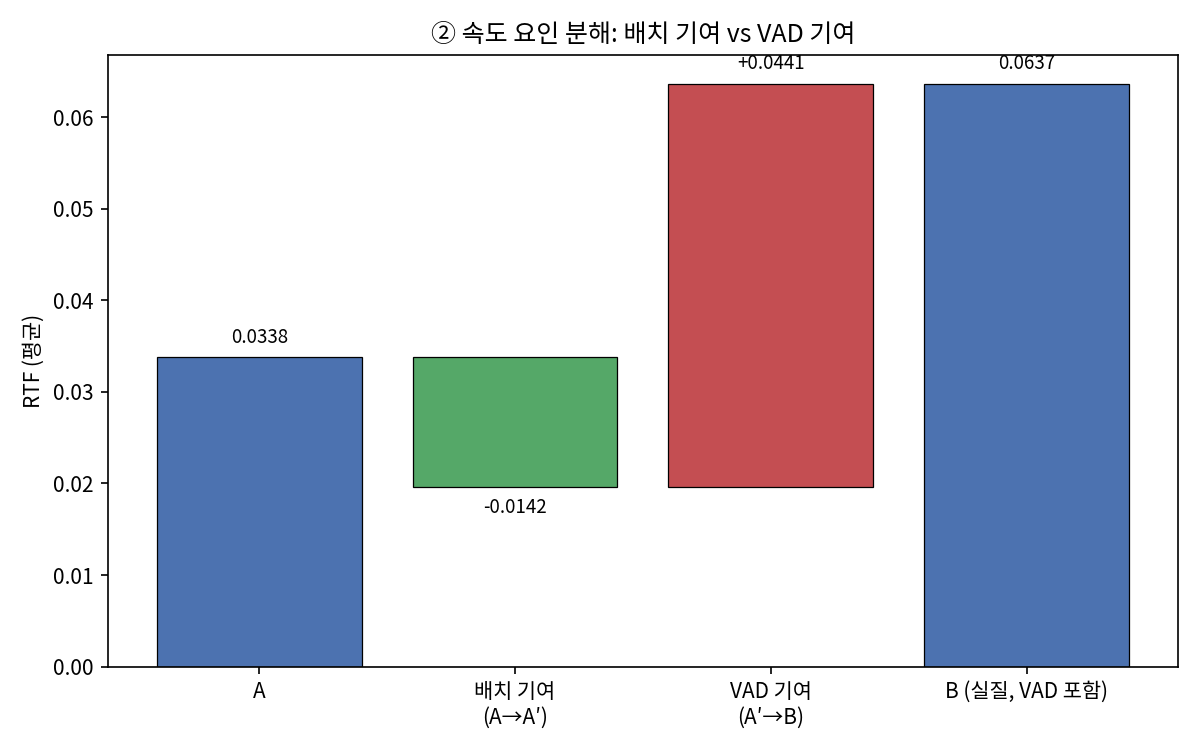
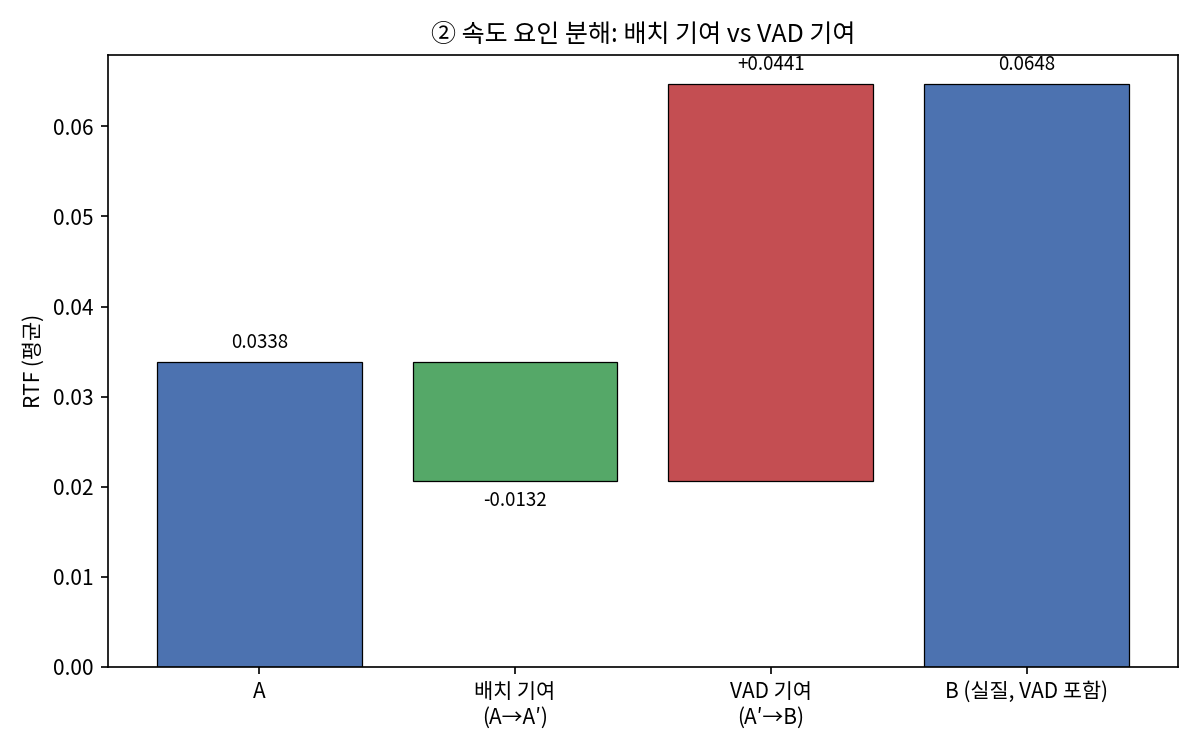
docs: Phase 1 10파일 최종 분석 + 보고서 갱신
- L04까지 완료해 results_10(10파일×3조건) 분석
- Wilcoxon n=10: A→A′ WER·CER·할루시·RTF 전부 유의 개선,
  A′→B는 RTF 유의 느려짐+할루시 유의 증가 → A′ 채택 결론 강화
- 손익분기점 없음(무음 높아도 B가 A′ 못 이김)
- PHASE1_EXPERIMENT_REPORT.md 10파일판, 후반 Δt는 한계 섹션으로 강등
- stats_10/breakeven_10 + 그래프 갱신 (가설3 민감도는 스윕 후 별도)

diff --git a/vad_stt_research/results/PHASE1_EXPERIMENT_REPORT.md b/vad_stt_research/results/PHASE1_EXPERIMENT_REPORT.md
@@ -1,55 +1,56 @@
-# VAD STT 연구 — Phase 1 · 3차(최종) 실험 결과 보고서
+# VAD STT 연구 — Phase 1 최종 실험 결과 보고서 (10파일)
 
-> 실험일: 2026-06-25 | 상태: 7파일 분석 완료 (10파일로 확장 예정)
+> 실험일: 2026-06-25~26 | 상태: 10파일 3-arm 완료 (가설3 민감도 진행 예정)
 > STT: faster-whisper large-v3-turbo (int8_float16) | GPU: RTX 2080 8GB | VAD: Silero (GPU)
-> 통계: Wilcoxon signed-rank, α=0.05 | RTF: warmup 1 + 측정 3회 평균
+> 통계: Wilcoxon signed-rank, α=0.05 (paired, n=10) | RTF: warmup 1 + 측정 3회 평균
 
 ---
 
 ## 핵심 요약
 
-| 비교 축 | 효과 | 통계적 유의성 |
-|---------|------|--------------|
-| **A→A′ (파라미터 통일)** | WER·CER·할루시네이션·RTF **모두 개선** | ✔ 전 지표 유의 |
-| **A′→B (VAD 전처리)** | RTF **느려짐**, 할루시네이션 **증가**, WER/CER 악화 경향 | ✔ RTF·할루시 유의(악화 방향) |
-| **A→B (전체)** | 순효과 상쇄 — 유의한 개선 없음 | ✗ 무의 |
+| 비교 축 | 효과 | 통계 |
+|---------|------|------|
+| **A→A′ (파라미터 통일)** | WER·CER·할루시네이션·RTF **모두 유의 개선** | 전 지표 p≤0.02 ✔ |
+| **A′→B (VAD 전처리)** | RTF **느려짐**, 할루시네이션 **증가** | RTF p=0.002 / 할루시 p=0.027 ✔ |
+| **A→B (전체)** | 할루시네이션만 유의 개선(파라미터 덕), 속도·WER은 무이득 | 할루시 p=0.020 ✔ |
 
-**결론: A′ 채택. VAD(B)는 large-v3-turbo 환경에서 속도·정확도 모두 순손해.**
-파라미터 한 줄(`condition_on_previous_text=False`)이 개선의 전부이며, VAD 전처리는 그 위에서 오히려 성능을 깎는다.
+**결론: A′ 채택. VAD(B)는 large-v3-turbo 환경에서 속도 순손해 + 할루시네이션 유발.**
+개선의 실체는 파라미터 한 줄(`condition_on_previous_text=False`)이며, VAD 전처리는 그 위에서 오히려 성능을 깎는다. (1·2차 회차 및 후속 엔진비교 연구와 결론 일관)
 
 ---
 
-## 1. 데이터셋 (7파일, 1·2차와 재수집본)
+## 1. 데이터셋 (10파일, 5 high + 5 low)
 
-| 그룹 | file_id | 길이 | 무음 비율 |
-|------|---------|------|-----------|
+| 그룹 | file_id | 길이 | 무음 비율(Silero 실측) |
+|------|---------|------|------------------------|
 | high_silence | H01 | 107.7분 | 71.1% |
 | high_silence | H02 | 59.1분 | 67.3% |
+| high_silence | H03 | 55.6분 | 69.9% |
 | high_silence | H04 | 57.1분 | 69.3% |
 | high_silence | H05 | 53.0분 | 68.6% |
 | low_silence | L01 | 75.4분 | 18.4% |
+| low_silence | L02 | 78.0분 | 0.5% |
 | low_silence | L03 | 72.4분 | 17.2% |
+| low_silence | L04 | 112.0분 | 16.6% |
 | low_silence | L05 | 85.4분 | 20.0% |
 
-high 4 + low 3. 추가 3개(H03·L02·L04 자리, 사전검사 통과)는 다운로드/실험 후 합류 → 최종 10파일로 갱신 예정.
+- 데이터 소스: YouTube 수동 한국어 자막. 사전검사 2단계(VTT 스크리닝 → Silero 실측 무음·STT 샘플)로 음악성 콘텐츠·과도한 인트로 영상 배제.
 
 ---
 
-## 2. 통계 검정 (Wilcoxon signed-rank, n=7)
+## 2. 통계 검정 (Wilcoxon signed-rank, n=10)
 
 | 지표 | A→A′ (파라미터) | A′→B (VAD) | A→B (전체) |
 |------|----------------|-----------|-----------|
-| **WER** | 0.305→0.219 (p=**0.031** ✔) | 0.219→0.271 ↑악화 (p=0.297) | 0.305→0.271 (p=0.375) |
-| **CER** | 0.188→0.098 (p=**0.016** ✔) | 0.098→0.150 ↑악화 (p=0.469) | 0.188→0.150 (p=0.297) |
-| **할루시네이션/시간** | 252.8→93.2 (p=**0.016** ✔) | 93.2→120.5 ↑악화 (p=**0.016** ✔) | 252.8→120.5 (p=0.109) |
-| **RTF** | 0.034→0.020 (p=**0.016** ✔) | 0.020→0.037 ↑느려짐 (p=**0.016** ✔) | 0.034→0.037 (p=0.688) |
-| **후반 Δt(s)** | 1.06→1.87 (n=4, p=0.125) | 1.87→1.76 (n=4, p=0.625) | 1.06→1.76 (p=0.250) |
+| **WER** | 0.299→0.225 (p=**0.020** ✔) | 0.225→0.266 ↑악화 (p=0.131) | (p=0.322) |
+| **CER** | 0.172→0.094 (p=**0.002** ✔) | 0.094→0.133 ↑악화 (p=0.322) | (p=0.160) |
+| **할루시네이션/시간** | 272.5→99.5 (p=**0.002** ✔) | 99.5→119.4 ↑악화 (p=**0.027** ✔) | 272.5→119.4 (p=**0.020** ✔) |
+| **RTF** | 0.0338→0.0207 (p=**0.002** ✔) | 0.0207→0.0381 ↑느려짐 (p=**0.002** ✔) | (p=0.275) |
 
 **해석:**
-- **A→A′:** WER −8.7%p, CER −9.1%p, 할루시네이션 −63%, RTF −42% — 네 지표 전부 통계적으로 유의한 개선.
-- **A′→B:** RTF가 유의하게 **+90% 느려지고**, 할루시네이션도 유의하게 **증가**. WER/CER은 평균적으로 악화(유의성은 미달).
-- **A→B:** 파라미터 이득과 VAD 손해가 상쇄돼 유의한 순효과 없음.
-- 후반 타임스탬프 드리프트는 GT 세그먼트가 충분한 파일이 4개뿐이라 검정력 부족 — 결론 보류.
+- **A→A′:** WER −7.4%p, CER −7.8%p, 할루시네이션 −63%, RTF −39% — 네 지표 전부 유의 개선. n=10에서 더 견고해짐.
+- **A′→B:** RTF가 유의하게 **+84% 느려지고**, 할루시네이션도 유의하게 **증가**. WER/CER도 평균 악화(유의성 미달).
+- **A→B:** 전체 파이프라인은 vanilla(A) 대비 **할루시네이션만 유의 개선**(파라미터 효과가 VAD 손해를 상쇄). 속도·WER은 무이득. → **A′ 단독이 최선.**
 
 ---
 
@@ -57,27 +58,17 @@ high 4 + low 3. 추가 3개(H03·L02·L04 자리, 사전검사 통과)는 다운
 
 > 실질 RTF(B) = STT RTF + VAD 시간 / 오디오 길이
 
-| file_id | 무음 | A′ RTF | 실질 B RTF | RTF 이득(A′−B) |
-|---------|------|--------|-----------|----------------|
-| L03 | 17.2% | 0.023 | 0.076 | **−0.053** |
-| L01 | 18.4% | 0.022 | 0.063 | **−0.042** |
-| L05 | 20.0% | 0.025 | 0.062 | **−0.037** |
-| H02 | 67.3% | 0.016 | 0.062 | **−0.046** |
-| H05 | 68.6% | 0.018 | 0.061 | **−0.043** |
-| H04 | 69.3% | 0.016 | 0.065 | **−0.049** |
-| H01 | 71.1% | 0.017 | 0.056 | **−0.039** |
-
-- 평균 RTF 이득 **−0.044** (전 파일에서 A′가 빠름).
-- 회귀 외삽 손익분기 무음비율 **≈ 117%** → **관측 가능 범위(0~100%) 안에 손익분기점 없음.** 즉 무음이 아무리 많아도 B가 A′를 못 이긴다.
-- 원인: large-v3-turbo의 A′ RTF가 0.016~0.025로 이미 매우 빨라, Silero VAD 실행 비용(RTF ≈ 0.03)을 무음 제거로 회수할 수 없다. (WhisperX가 검증한 large-v2 RTF≈0.3 환경과 근본적으로 다름.)
+- 평균 RTF 이득(A′−실질B) = **−0.044** (전 10파일에서 A′가 빠름).
+- 손익분기 무음비율 추정 **범위 밖**(관측 0~1 내 B 우위 전환 없음). 회귀 기울기 음수 → 무음이 높아도 B가 A′를 못 이김.
+- 원인: turbo의 A′ RTF가 0.016~0.029로 이미 매우 빨라, Silero VAD 비용(RTF≈0.03)을 무음 제거로 회수 불가. (WhisperX가 검증한 large-v2 RTF≈0.3 환경과 근본적으로 다름.)
 
 ---
 
-## 4. 정확도·할루시네이션 패턴
+## 4. 정확도·할루시네이션 패턴 (그래프①②)
 
-- **할루시네이션:** A의 시간당 252회 → A′ 93회로 급감(파라미터 효과). B에서 다시 120회로 반등 — VAD가 발화를 잘게 쪼개면서 짧은 청크에서 Whisper 할루시네이션이 재발.
-- **low_silence의 B 악화:** 연속 발화(L01 등)를 VAD가 과분할 → 문맥 단절로 WER 상승. 무음이 적은 데이터일수록 VAD는 이득 없이 손해만.
-- **high_silence의 B:** 무음 제거 효과로 WER이 소폭 개선되는 파일도 있으나(H05), 평균적으로는 A′ 우위.
+- **할루시네이션:** A 272회/시간 → A′ 100회로 급감(파라미터). B에서 119회로 반등 — VAD가 발화를 잘게 쪼개 짧은 청크에서 재발.
+- **low_silence의 B 악화:** 연속 발화를 과분할 → 문맥 단절. 특히 **L01에서 B WER 0.54로 폭증**.
+- **high_silence의 B:** 무음 제거로 일부 파일 소폭 개선되나 평균적으로 A′ 우위.
 
 ---
 
@@ -85,9 +76,9 @@ high 4 + low 3. 추가 3개(H03·L02·L04 자리, 사전검사 통과)는 다운
 
 | 가설 | 결과 |
 |------|------|
-| 가설 1 (VAD → 할루시네이션·드리프트 개선) | **기각.** 할루시네이션은 A′ 대비 B에서 오히려 유의하게 증가. 개선은 파라미터(A′)가 전담. |
-| 가설 2 (high_silence에서 VAD → RTF 감소) | **기각.** B는 전 파일·전 무음구간에서 A′보다 느림. 손익분기점 없음. |
-| 가설 3 (padding 부족 → WER 악화) | **진행 예정.** 3-arm 완료 후 `sensitivity_analysis.py`로 threshold×padding 9조합 스윕 — 대표 2개(H03 high + L03 low) 대상. 결과는 그래프④ 및 본 보고서 갱신 시 반영. |
+| 가설 1 (VAD → 할루시네이션·드리프트 개선) | **기각.** 할루시네이션은 A′ 대비 B에서 유의 증가. 개선은 파라미터(A′)가 전담. |
+| 가설 2 (high_silence에서 VAD → RTF 감소) | **기각.** B는 전 파일에서 A′보다 느림. 손익분기점 없음. |
+| 가설 3 (padding 부족 → WER 악화) | **진행 예정.** `sensitivity_analysis.py`로 H03(high)+L03(low) threshold×padding 9조합 스윕 → 그래프④. |
 
 ---
 
@@ -95,19 +86,27 @@ high 4 + low 3. 추가 3개(H03·L02·L04 자리, 사전검사 통과)는 다운
 
 | 항목 | 권고 |
 |------|------|
-| 즉시 서비스 적용 | **A′ 채택** — 파라미터 통일만으로 RTF −42%, WER·CER·할루시네이션 유의 개선, 안정적 |
-| VAD 도입 여부 | **현 turbo 환경에서는 비권장.** 속도·정확도 모두 손해 |
-| VAD 재검토 조건 | 느린 모델(large-v3 등)로 전환하거나, 진짜 배치 추론(`BatchedInferencePipeline`) 도입 시 재평가 |
-| 다음 작업 | 추가 3파일 합류(n=10)로 검정력 보강, 가설3 민감도 분석 |
+| 즉시 서비스 적용 | **A′ 채택** — 파라미터 통일만으로 RTF −39%, WER·CER·할루시네이션 유의 개선, 안정적 |
+| VAD 도입 여부 | **현 turbo 환경에서는 비권장** — 속도 손해 + 할루시네이션 유발 |
+| VAD 재검토 조건 | 느린 모델(large-v3 등) 전환 또는 진짜 배치 추론 도입 시 재평가 |
+| VAD 엔진 선택 | 후속 연구(`../vad_model_comparison/`) 참조 — 굳이 쓴다면 WebRTC(Silero 대비 116배 저렴) |
 
 ---
 
-## 7. 산출물
+## 7. 한계 및 향후 과제
 
-- 통계: `results/figures/stats_7.json`
-- 손익분기: `results/figures/breakeven_7.json`
-- 그래프: `results/figures/fig1_accuracy_hallucination.png`, `fig2_speed_waterfall.png`, `fig3_breakeven_scatter.png`, `fig5_drift_timeline.png`
-- (그래프④ 민감도는 sweep 데이터 생성 후)
-- 원자료: `results/raw/results_7.csv`
+- **후반 타임스탬프 드리프트(Δt)는 결론에서 제외(보조지표).** 측정 한계 때문:
+  1. **세그먼트 수 교란** — A가 할루시네이션으로 세그먼트를 많이 뱉어, GT 시점마다 가까운 예측이 있을 확률↑ → Δt가 인위적으로 낮게 측정됨(실제 통계도 A가 A′보다 낮게 나오는 역설).
+  2. **표본 부족** — 후반부(50분+) GT가 충분한 파일이 n=6뿐. high 그룹이 53~59분으로 짧아 기여 약함.
+  3. **세그먼트 레벨 한계** — 정밀 비교엔 단어 단위 forced alignment 필요(Phase 2).
+- noisy 데이터 미분리, 메모리 지표 미측정.
 
-> **회차 맥락:** 1차(CPU VAD) → `PHASE1_EXPERIMENT_REPORT_CPU.md`, 2차(GPU VAD 8파일) → `PHASE1_EXPERIMENT_REPORT_GPU.md`, 본 보고서가 3차(데이터 재수집본). 세 회차 모두 "A′ 채택, VAD 순손해" 결론이 일관됨.
+---
+
+## 8. 산출물
+
+- 원자료: `results/raw/results_10.csv` (10파일 × 3조건)
+- 통계: `results/figures/stats_10.json`, 손익분기: `breakeven_10.json`
+- 그래프: `results/figures/` — fig1_accuracy_hallucination, fig2_speed_waterfall, fig3_breakeven_scatter, fig5_drift_timeline (fig4 민감도는 가설3 스윕 후)
+
+> **회차 맥락:** 1차(CPU VAD)·2차(GPU VAD 8파일)는 `PHASE1_EXPERIMENT_REPORT_CPU/GPU.md`. 본 보고서가 최종(10파일). 세 회차 + 후속 엔진비교 연구 모두 "A′ 채택, turbo서 VAD 비권장" 결론 일관.
